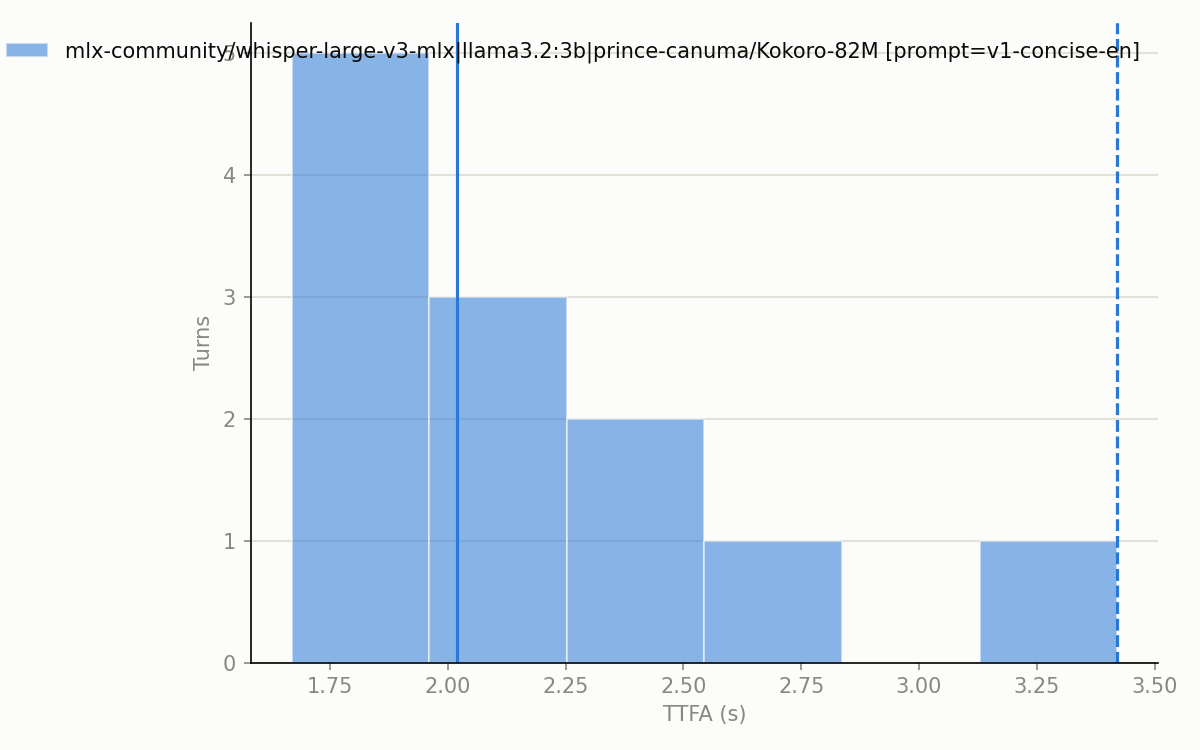
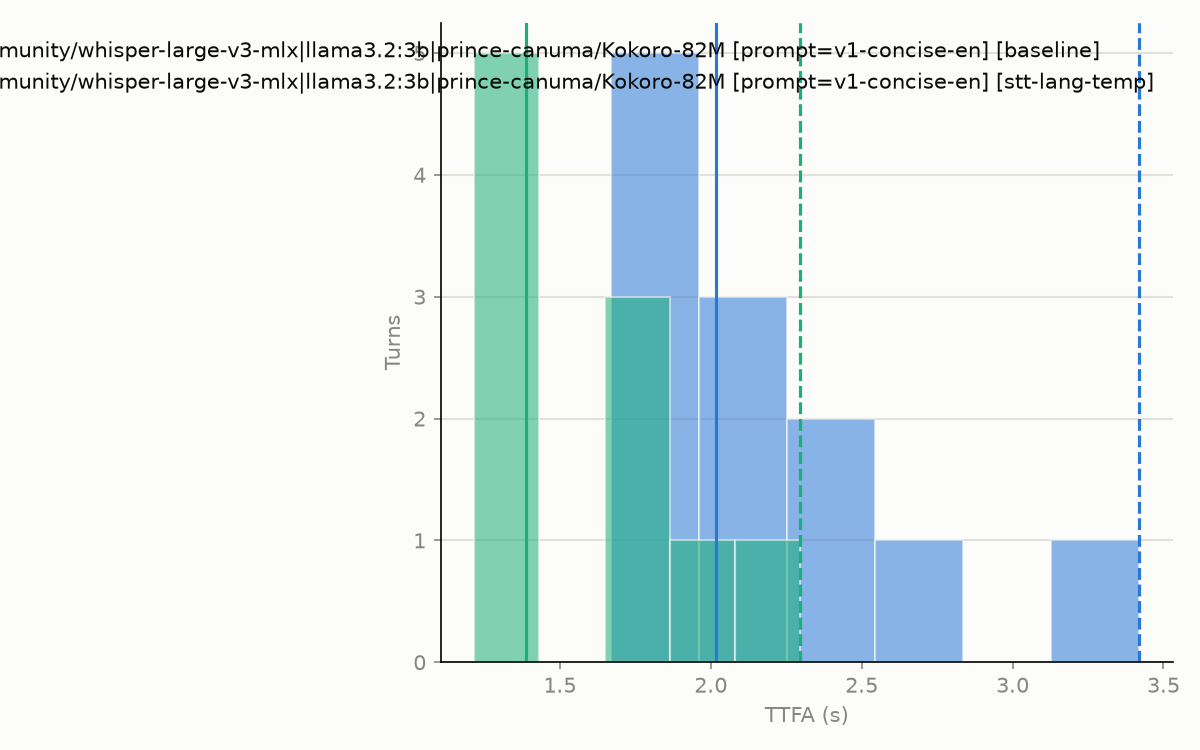
feat: add stage_trend plot and wire trend plots into benchmarks.plot main

diff --git a/benchmarks/plot.py b/benchmarks/plot.py
@@ -22,7 +22,13 @@ import matplotlib
 matplotlib.use("Agg")
 import matplotlib.pyplot as plt
 
-from benchmarks.eval_latency import combo_tag_key, group_by_combination_and_tag, load_runs_with_tags, percentile
+from benchmarks.eval_latency import (
+    combo_tag_key,
+    group_by_combination_and_tag,
+    load_runs_with_tags,
+    ordered_tags_by_combination,
+    percentile,
+)
 
 STAGE_LABELS = {
     "end_of_turn_s": "End of turn",
@@ -219,6 +225,51 @@ def plot_ttfa_trend(
     plt.close(fig)
 
 
+def plot_stage_trend(
+    latency_summary: dict[str, dict],
+    ordered_tags: dict[str, list[str]],
+    out_path: str,
+) -> None:
+    base = _single_trend_base(ordered_tags)
+    if base is None:
+        print(f"plot_stage_trend: skipped ({out_path}), no single combination has >=2 change-tags yet", file=sys.stderr)
+        return
+    tags = ordered_tags[base]
+
+    series: dict[str, list[float]] = {stage: [] for stage in STAGE_LABELS}
+    for tag in tags:
+        summary = latency_summary.get(combo_tag_key(base, tag), {})
+        for stage in STAGE_LABELS:
+            value = summary.get(stage, {}).get("p50")
+            series[stage].append(value if value is not None else 0.0)
+
+    fig, ax = plt.subplots(figsize=(9, 5))
+    fig.patch.set_facecolor(CHART_SURFACE)
+    ax.set_facecolor(CHART_SURFACE)
+
+    x = range(len(tags))
+    ax.stackplot(
+        x,
+        *[series[stage] for stage in STAGE_LABELS],
+        labels=list(STAGE_LABELS.values()),
+        colors=[STAGE_COLORS[stage] for stage in STAGE_LABELS],
+    )
+    ax.set_xticks(list(x))
+    ax.set_xticklabels(tags, color=PRIMARY_INK)
+    ax.set_title(base, color=PRIMARY_INK, fontsize=10)
+    ax.set_ylabel("p50 latency (s)", color=MUTED_INK)
+    ax.grid(axis="y", color=GRIDLINE, linewidth=1)
+    ax.set_axisbelow(True)
+    for spine in ("top", "right"):
+        ax.spines[spine].set_visible(False)
+    ax.tick_params(colors=MUTED_INK)
+    ax.legend(frameon=False, labelcolor=PRIMARY_INK, loc="upper left")
+
+    fig.tight_layout()
+    fig.savefig(out_path, dpi=150, facecolor=CHART_SURFACE)
+    plt.close(fig)
+
+
 def main(
     runs_dir: str = "benchmarks/results/runs",
     summary_path: str = "benchmarks/results/latency_summary.json",
@@ -226,11 +277,15 @@ def main(
 ) -> None:
     with open(summary_path) as f:
         latency_summary = json.load(f)
-    grouped_records = group_by_combination_and_tag(load_runs_with_tags(runs_dir))
+    tagged_records = load_runs_with_tags(runs_dir)
+    grouped_records = group_by_combination_and_tag(tagged_records)
+    ordered_tags = ordered_tags_by_combination(tagged_records)
 
     os.makedirs(plots_dir, exist_ok=True)
     plot_stage_breakdown(latency_summary, os.path.join(plots_dir, "stage_breakdown.png"))
     plot_ttfa_distribution(grouped_records, os.path.join(plots_dir, "ttfa_distribution.png"))
+    plot_ttfa_trend(latency_summary, ordered_tags, os.path.join(plots_dir, "ttfa_trend.png"))
+    plot_stage_trend(latency_summary, ordered_tags, os.path.join(plots_dir, "stage_trend.png"))
 
 
 if __name__ == "__main__":

diff --git a/tests/test_plot.py b/tests/test_plot.py
@@ -8,6 +8,7 @@ shape/non-emptiness, not pixel content).
 
 from benchmarks.plot import (
     plot_stage_breakdown,
+    plot_stage_trend,
     plot_ttfa_distribution,
     plot_ttfa_trend,
     stage_breakdown_series,
@@ -112,6 +113,31 @@ def test_plot_ttfa_trend_skips_when_multiple_combinations_qualify(tmp_path, caps
     ordered_tags = {"combo-a": ["baseline", "fix1"], "combo-b": ["baseline", "fix1"]}
 
     plot_ttfa_trend(latency_summary, ordered_tags, str(out_path))
+
+    assert not out_path.exists()
+    assert "skipped" in capsys.readouterr().err
+
+
+def test_plot_stage_trend_writes_a_png_when_two_tags_exist(tmp_path):
+    out_path = tmp_path / "stage_trend.png"
+    latency_summary = {
+        "combo-a [baseline]": _summary(transcription_s={"p50": 1.28, "p95": 1.44, "p99": 1.5}),
+        "combo-a [fix1]": _summary(transcription_s={"p50": 0.77, "p95": 1.10, "p99": 1.2}),
+    }
+    ordered_tags = {"combo-a": ["baseline", "fix1"]}
+
+    plot_stage_trend(latency_summary, ordered_tags, str(out_path))
+
+    assert out_path.exists()
+    assert out_path.stat().st_size > 0
+
+
+def test_plot_stage_trend_skips_when_only_one_tag_exists(tmp_path, capsys):
+    out_path = tmp_path / "stage_trend.png"
+    latency_summary = {"combo-a [baseline]": _summary()}
+    ordered_tags = {"combo-a": ["baseline"]}
+
+    plot_stage_trend(latency_summary, ordered_tags, str(out_path))
 
     assert not out_path.exists()
     assert "skipped" in capsys.readouterr().err